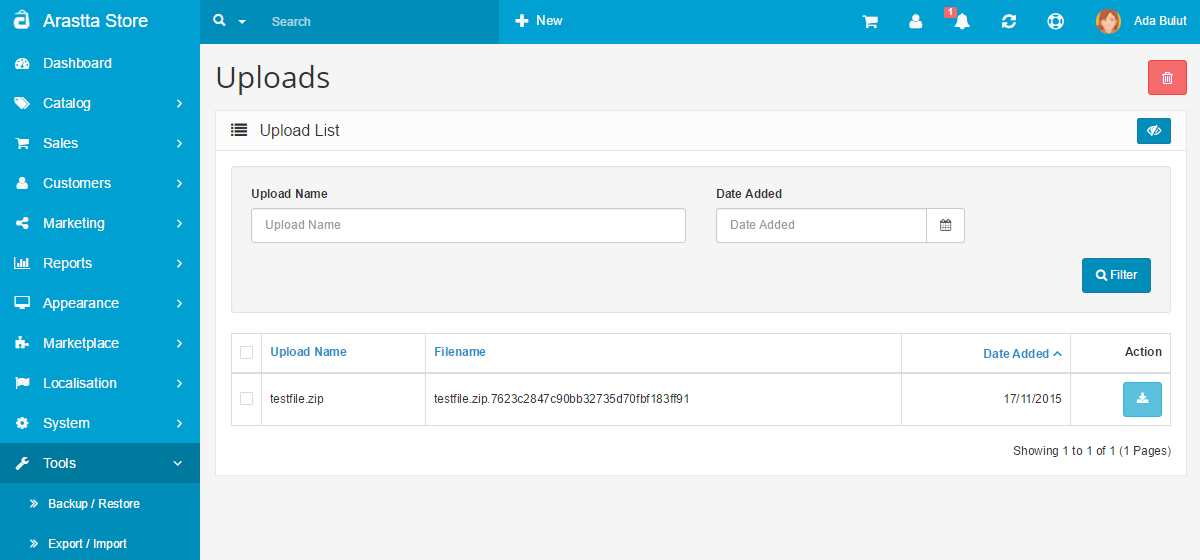
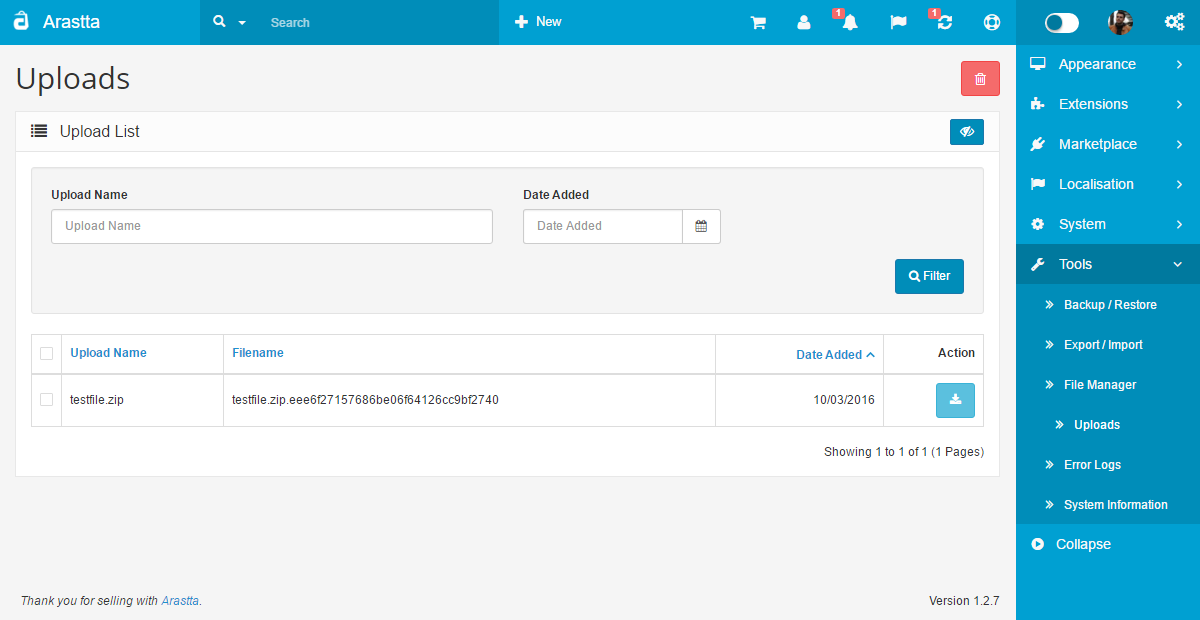
Uploads page updated

diff --git a/en/user-manual/tools/uploads.md b/en/user-manual/tools/uploads.md
@@ -1,8 +1,27 @@
 Uploads
 =======
 
+<div class="uk-alert-info uk-alert">
+  <span class="uk-icon-info-circle"></span> You can switch between Basic and Advanced modes from the tabs below.
+</div>
+<ul class="uk-tab" data-uk-tab="{connect:'#doc-tabs', animation: 'fade'}">
+    <li><a href="">Basic Mode</a></li>
+    <li><a href="">Advanced Mode</a></li>
+</ul>
+
+To access the Uploads section in your Arastta admin panel, click on **Right Menu > Tools > Uploads**.
+
 Basically, this is the list of all uploaded files from customers. These files are uploaded from the "File" field of products [options](docs/user-manual/catalog/options) or customers' account/address pages. The second is called "[Custom Fields](docs/user-manual/customers/fields)".
 
 It allows store owners to download or delete the files. The search field helps to find the file and the date field helps to filter files according the uploaded date.
 
-![uploads backend](_images/uploads.png)
+<ul id="doc-tabs" class="uk-switcher uk-margin">
+    <li markdown="1">![uploads backend](_images/uploads-basic.png)
+Using Bulk Actions
+-----------------------------
+
+Bulk Actions describe the process to be performed on particular Files. These Actions can be performed on one, or more Files, at one time, if those Files have been previously selected. Bulk Actions are available, when appropriate, as choices in the Actions pulldown box, above each Table. There is only one Bulk Action allowed, **Delete**.</li>
+    <li markdown="1">![uploads backend](_images/uploads.png)</li>
+</ul>
+
+The Action button on the right side allows you to download the uploaded file from your Arastta store. Respectively, the Delete button allows you to remove the selected file.
